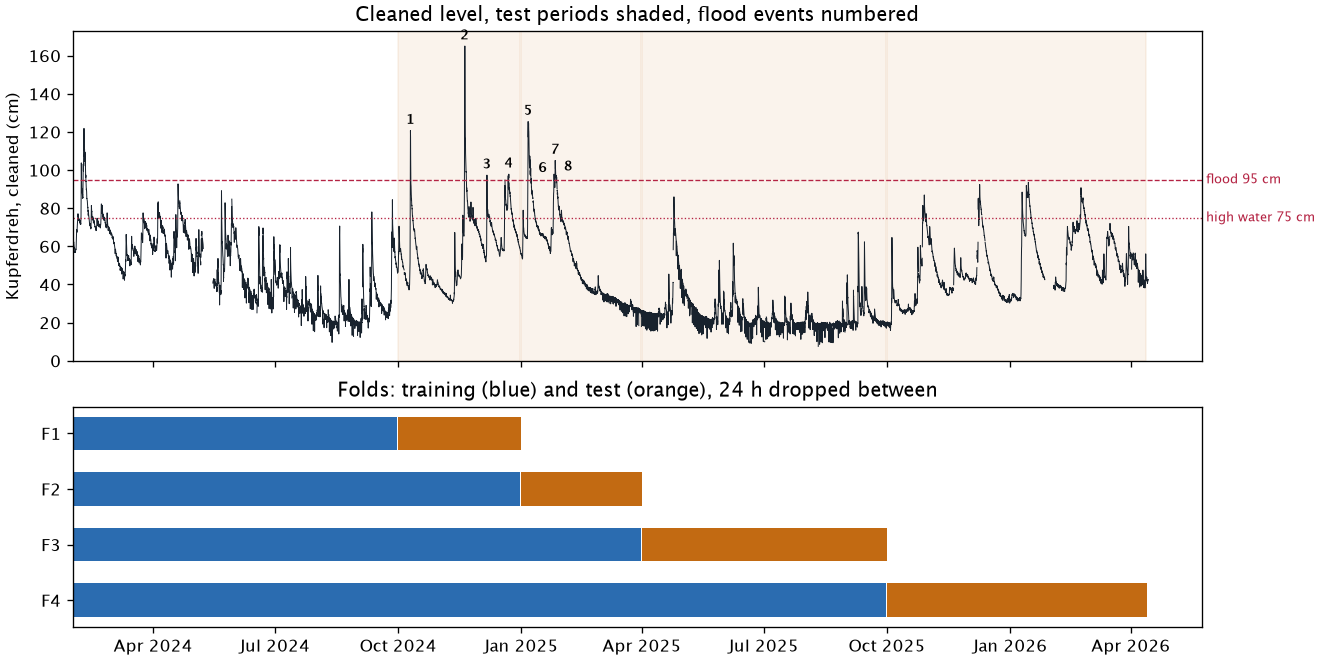
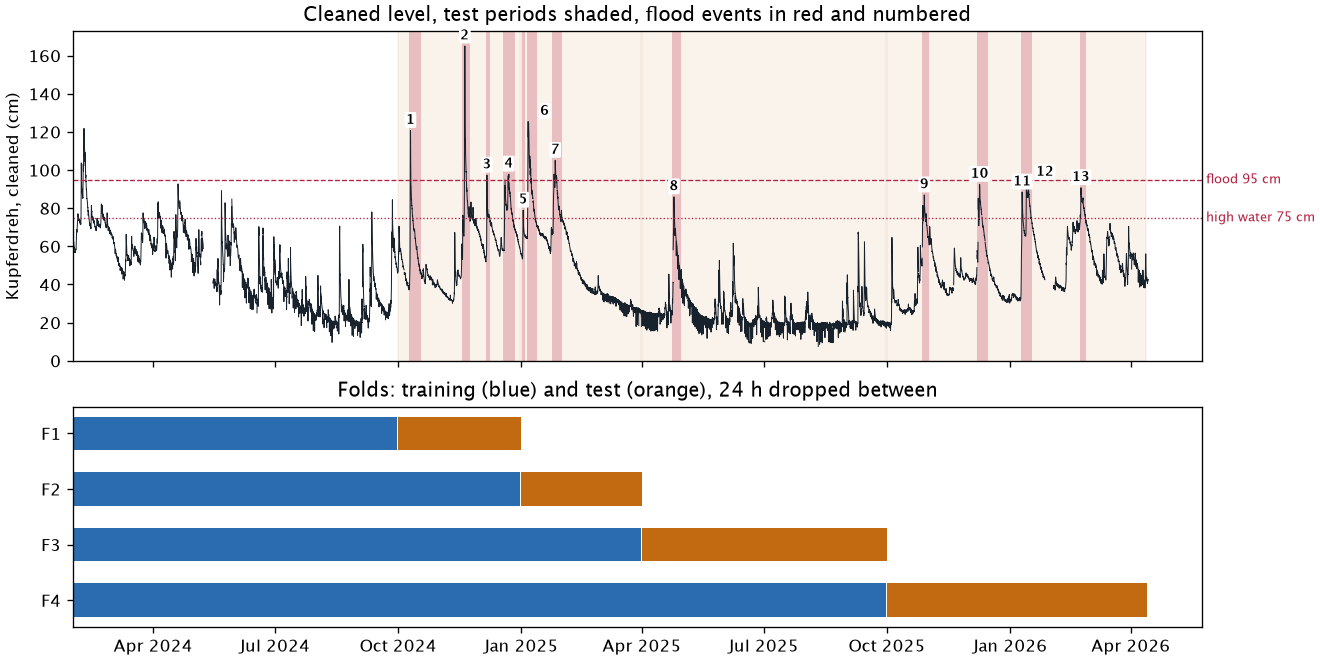
docs(evaluation): redraw the split and event figures with the new flood events
methodology_plots.py now uses flood_events: the split figure shades and
numbers the 13 test-fold events, and each event gets a plot with the
event shaded and its pre-event level. Drop the images of the old events
above 95 cm and every mention of them from evaluation.md.

Changed region(s): [[0.2174, 0.0, 0.7455, 0.5455], [0.6833, 0.0606, 0.8386, 0.5455]]

diff --git a/analysis/model-evaluation/methodology_plots.py b/analysis/model-evaluation/methodology_plots.py
@@ -1,6 +1,6 @@
 """Figures and tables for docs/evaluation.md: the fold split and every flood event.
 
-Reads the frozen dataset only, with the same folds, embargo and event rule as the scorer.
+Reads the frozen dataset only, with the scorer's folds and embargo and `events.flood_events`.
 
     uv run --group analysis python analysis/model-evaluation/methodology_plots.py \
         ~/data/deilbach-pegel/eval/2026-10-14/eval.parquet docs/images/evaluation-methodology
@@ -50,20 +50,22 @@ def split_plot(observed: pd.Series, floods: pd.DataFrame, settings, path: Path) 
         )
     previous_peak = None
     for number, flood in enumerate(floods.itertuples(), start=1):
+        top.axvspan(flood.start, flood.end, color="#b42343", alpha=0.25, linewidth=0)
         # Shift a label sideways when its peak is close to the previous one.
         close = previous_peak is not None and flood.peak_at - previous_peak < pd.Timedelta(days=5)
         top.annotate(
             str(number),
             (flood.peak_at, flood.peak_cm),
-            xytext=(7 if close else 0, 4),
+            xytext=(10 if close else 0, 4),
             textcoords="offset points",
             ha="center",
             fontsize=8,
             weight="bold",
+            bbox={"boxstyle": "round,pad=0.1", "facecolor": "white", "edgecolor": "none"},
         )
         previous_peak = flood.peak_at
     top.set_ylabel("Kupferdreh, cleaned (cm)")
-    top.set_title("Cleaned level, test periods shaded, flood events numbered")
+    top.set_title("Cleaned level, test periods shaded, flood events in red and numbered")
 
     first = pd.Timestamp(settings.window_first_day)
     for row, fold in enumerate(contract.FOLDS):
@@ -122,6 +124,13 @@ def event_plot(
     top.axhline(
         settings.flood_cm, color="#b42343", linewidth=0.8, linestyle="--", label="flood 95 cm"
     )
+    top.axhline(
+        flood.pre_event_cm,
+        color=LEVEL,
+        linewidth=0.8,
+        linestyle="-.",
+        label=f"pre-event level {flood.pre_event_cm:.1f} cm",
+    )
     top.axvspan(flood.start - HOUR / 2, flood.end + HOUR / 2, color=TEST, alpha=0.12)
     top.set_ylabel("level (cm)")
     top.set_title(
@@ -153,6 +162,9 @@ def fold_table(dataset: pd.DataFrame, floods: pd.DataFrame, settings) -> pd.Data
                     (test[contract.KD_LAST_CM] > settings.high_water_cm).sum()
                 ),
                 "flood events": int(in_test.sum()),
+                "of them above 95 cm": int(
+                    (in_test & (floods["peak_cm"] > settings.flood_cm)).sum()
+                ),
             }
         )
     return pd.DataFrame(rows)
@@ -173,8 +185,9 @@ def event_table(floods: pd.DataFrame, dataset: pd.DataFrame) -> pd.DataFrame:
             {
                 "event": number,
                 "fold": next(name for name, (a, b) in fold_of.items() if a <= flood.peak_at < b),
-                "above 95 cm from (UTC)": f"{flood.start:%Y-%m-%d %H:%M}",
-                "to (UTC)": f"{flood.end:%Y-%m-%d %H:%M}",
+                "start (UTC)": f"{flood.start:%Y-%m-%d %H:%M}",
+                "end (UTC)": f"{flood.end:%Y-%m-%d %H:%M}",
+                "pre-event level (cm)": round(flood.pre_event_cm, 1),
                 "peak (cm)": round(flood.peak_cm, 1),
                 "peak at (UTC)": f"{flood.peak_at:%Y-%m-%d %H:%M}",
                 "radar, wettest cell, 48 h to peak (mm)": round(
@@ -189,10 +202,10 @@ def main(dataset_path: Path, out_dir: Path) -> None:
     settings = load_config().evaluation
     dataset = pd.read_parquet(dataset_path)
     observed = events.observed_levels(dataset, settings.leads_hours)
-    # The scored events: only those in the test periods, as in score.py.
+    # Found on the whole window, so an event's look-back can reach before the first test period.
+    all_floods = events.flood_events(observed, settings.high_water_cm)
     test_start = pd.Timestamp(contract.FOLDS[0].test_start, tz="UTC")
-    floods = events.episodes(observed[test_start:], settings.flood_cm)
-    all_floods = events.episodes(observed, settings.flood_cm)
+    floods = all_floods[all_floods["peak_at"] >= test_start].reset_index(drop=True)
     out_dir.mkdir(parents=True, exist_ok=True)
     split_plot(observed, floods, settings, out_dir / "split.png")
     for number, flood in enumerate(floods.itertuples(), start=1):

diff --git a/docs/evaluation.md b/docs/evaluation.md
@@ -43,7 +43,7 @@ Four expanding-window folds, fixed in code (`src/pegel/evaluation/contract.py`).
 
 ## Flood events
 
-**Proposed, not in the code yet.** The scorer (`src/pegel/evaluation/events.py`) still uses the old rule: a time above 95 cm, with spells whose peaks are less than 24 hours apart merged. That gave 8 events. The new rule below replaces it once confirmed.
+Found by `flood_events` in `src/pegel/evaluation/events.py`. The scorer's peak scores still use spells above 95 cm until the flood forecast scoring lands.
 
 A flood event is one rise of the river and its fall back, with a peak above 75 cm (`evaluation.high_water_cm`). It is found on the hourly cleaned level:
 
@@ -81,26 +81,16 @@ The events are not sensitive to the numbers. Changing one at a time:
 | 12 | F4 | 2026-01-12 12:30 | 2026-01-17 10:30 | 65.4 | 93.5 | 2026-01-14 11:30 | 25.1 |
 | 13 | F4 | 2026-02-21 17:30 | 2026-02-26 03:30 | 69.9 | 90.7 | 2026-02-22 18:30 | 35.2 |
 
-**What changed from the old 8 events.**
+**Six of the 13 events pass 95 cm** (1, 2, 3, 4, 6, 7), and each holds one first crossing of 95 cm. Only event 2 crosses the first category bound, 145 cm. The other seven count for peak errors only.
 
-- Old events 5 and 6 are now event 6. The 95.4 cm on 8 Jan 2025 was a small bump in the fall after the 125 cm peak.
-- Old events 7 and 8 are now event 7. The level stayed above 90 cm between the two peaks.
-- Events 6 and 7 stay apart, so old events 5 to 8 become two events, not one. From 14 to 23 January the level was back at 56 to 67 cm, at or below the 64 cm event 6 started from. No rule that ends an event at its pre-event level can join them.
-- New are the seven events that peak between 75 and 95 cm: 5 (2 Jan 2025), 8 (April 2025) and all five in F4.
-- Events 11 and 12 (January 2026) are two events: between them the level sat at 65 to 67 cm for a day and a half. Events 5 and 6 in January 2025 are split the same way.
+**Warnings don't use events.** First crossings of 95 cm and of each category bound are found on the level itself: 6 at 95 cm and 1 at 145 cm in the test folds. The per-lead hits diagnostic (`alarms.csv`) also keeps its own spells above each threshold.
 
-**13 events, 6 first crossings.** Six events pass 95 cm (1, 2, 3, 4, 6, 7), and each holds one first crossing of 95 cm. Only event 2 crosses the first category bound, 145 cm. The other seven count for peak errors only.
-
-**Warnings don't change.** First crossings of 95 cm and of each category bound are found on the level itself, not from events, so the warning tables keep their 6 crossings at 95 cm and 1 at 145 cm. The per-lead hits diagnostic (`alarms.csv`) also keeps its own spells above each threshold.
-
-Each plot shows the event from 36 hours before it starts to 48 hours after it ends. Top: the cleaned Kupferdreh level and the two upstream gauges, with the event shaded. Bottom: hourly radar rain in the wettest radar cell of the catchment (the dataset's `catchment` series is the cell maximum, not a mean). The figures are redrawn with:
+Each plot shows the event from 36 hours before it starts to 48 hours after it ends. Top: the cleaned Kupferdreh level and the two upstream gauges, with the event shaded and its pre-event level as a dash-dot line. Bottom: hourly radar rain in the wettest radar cell of the catchment (the dataset's `catchment` series is the cell maximum, not a mean). The figures are redrawn with:
 
 ```
 uv run --group analysis python analysis/model-evaluation/methodology_plots.py \
     ~/data/deilbach-pegel/eval/2026-10-14/eval.parquet docs/images/evaluation-methodology
 ```
-
-**The images below are still from the old rule** (time above 95 cm shaded, old numbers in the titles and in the split figure). They will be redrawn once the new rule is in the code. Events 5 and 8 to 13 get their figures then.
 
 ### Event 1 · 10 Oct 2024, 120.7 cm
 
@@ -124,11 +114,13 @@ The largest flood in the window and the only one above 145 cm. ICON-D2 badly und
 
 A small rise three days before event 6. The level then stayed at 64 to 66 cm for two days.
 
+![Event 5](images/evaluation-methodology/event-5-2025-01-02.png)
+
 ### Event 6 · 5 Jan 2025, 125.4 cm
 
 Above 95 cm for more than two days. The bump to 95.4 cm on 8 January is part of the fall.
 
-![Event 6](images/evaluation-methodology/event-5-2025-01-05.png)
+![Event 6](images/evaluation-methodology/event-6-2025-01-05.png)
 
 ### Event 7 · 26 Jan 2025, 105.0 cm
 
@@ -140,15 +132,27 @@ Two peaks: 98 cm on 25 January and 105 cm on 26 January, with a last bump to 96 
 
 The only event in the summer half, after 106 mm of radar rain in the wettest cell.
 
+![Event 8](images/evaluation-methodology/event-8-2025-04-24.png)
+
 ### Event 9 · 28 Oct 2025, 86.9 cm
+
+![Event 9](images/evaluation-methodology/event-9-2025-10-28.png)
 
 ### Event 10 · 9 Dec 2025, 92.4 cm
 
+![Event 10](images/evaluation-methodology/event-10-2025-12-09.png)
+
 ### Event 11 · 9 Jan 2026, 88.4 cm
+
+![Event 11](images/evaluation-methodology/event-11-2026-01-09.png)
 
 ### Event 12 · 14 Jan 2026, 93.5 cm
 
+![Event 12](images/evaluation-methodology/event-12-2026-01-14.png)
+
 ### Event 13 · 22 Feb 2026, 90.7 cm
+
+![Event 13](images/evaluation-methodology/event-13-2026-02-22.png)
 
 ## Metrics
 
